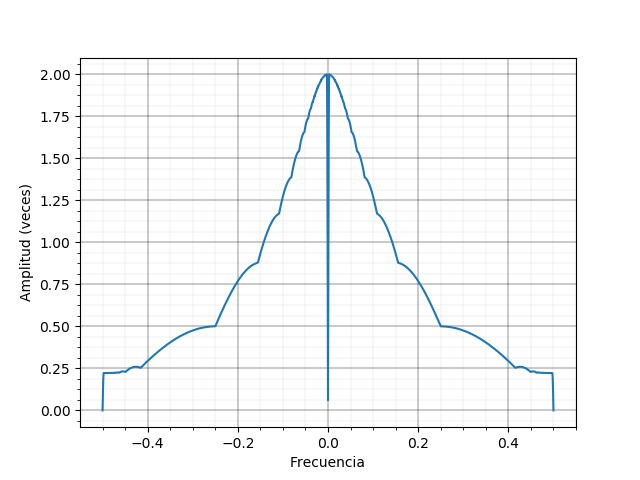
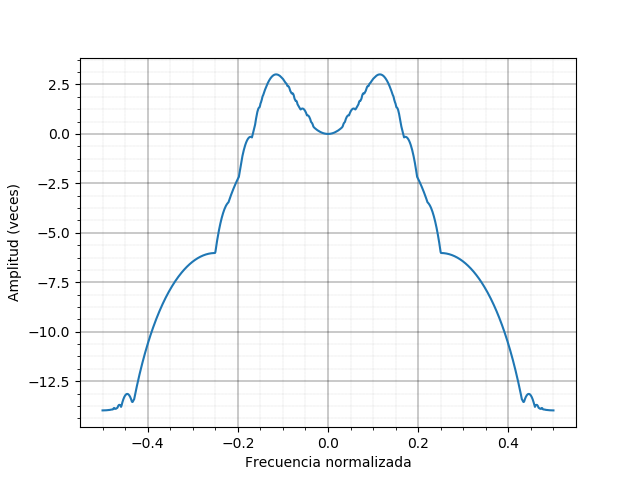
9 rta en frecuencia

Changed region(s): [[0.0, 0.125, 0.9062, 0.875], [0.375, 0.9375, 0.6562, 1.0]]

diff --git a/TP1/ej9/itemA/rta_freq_numerica.py b/TP1/ej9/itemA/rta_freq_numerica.py
@@ -30,13 +30,14 @@ def get_max(arr):
 
 
 alpha = 1
-beta = -1/4
+beta = -1/2
+dif = 0.0001
 
-f_range = linspace(-1/2, 1/2, 10000)
+f_range = linspace(-1/2+dif, 1/2-dif, 1000)
 
-amp_values = 10000 * [0]
+amp_values = 1000 * [0]
 
-n_range = range(100)
+n_range = range(10000)
 
 i = 0
 
@@ -44,12 +45,12 @@ for f in f_range:
     x = [sin(2*pi*f*n) for n in n_range]
     y = computar_recurrencia(x, alpha, beta)
 
-    amplitud = get_max(y)
+    amplitud = 20 * log10(get_max(y))
     amp_values[i] = amplitud
 
     i = i + 1
 
-plt.xlabel("Frecuencia")
+plt.xlabel("Frecuencia normalizada")
 plt.ylabel("Amplitud (veces)")
 
 
